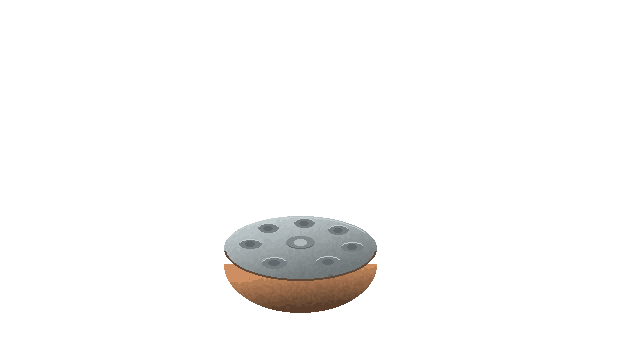
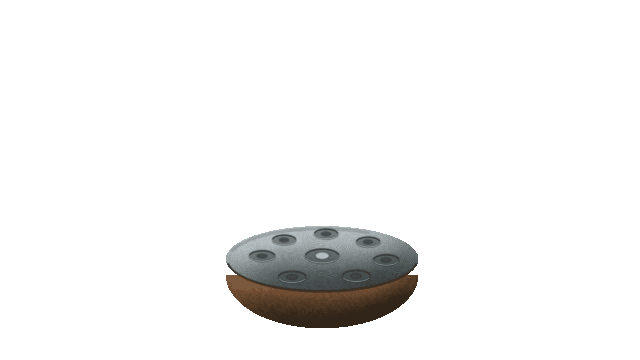
Nyitány: a játékos, a hangszer és a karok domborított fény-árnyékkal festett pixeles képek (tools/intro_jatekos.py), a karok három mozgásfázisa a zene ütéseire vált; a képek importálás nélkül is betöltődnek; simább erdő; felirat: „Music: Malte Marten”
Claude-Session: https://claude.ai/code/session_01T6sPwaPiVjASr8DLyjC9bo

Changed region(s): [[0.3438, 0.5806, 0.6562, 0.9167]]

diff --git a/AETHER_godot/tools/intro_jatekos.py b/AETHER_godot/tools/intro_jatekos.py
@@ -1,0 +1,215 @@
+"""A nyitány handpan-játékosa: festett pixeles alak, a karok mozgásfázisaival.
+
+Saját, kódból festett figura (nem fénykép, nem videókocka és nem valódi személy portréja).
+Háromszoros méretben fest, domborított fény-árnyékkal, majd lekicsinyít és kevés színre vált:
+ettől lesz „festett pixeles”. A karok külön képek három fázisban (fent, félúton, lent),
+a játék ezeket váltja a zene ütéseire (scripts/intro.gd).
+
+Kimenet (640×360, átlátszó háttérrel) az assets/intro mappába:
+  jatekos.png                 test, fej, lábak, a kő
+  handpan.png                 a hangszer
+  kar_b_0..2.png, kar_j_0..2.png   a bal és a jobb kar (a képen bal/jobb) három fázisa
+
+Kell hozzá: Pillow és numpy.   Használat:  python tools/intro_jatekos.py
+"""
+from pathlib import Path
+
+import numpy as np
+from PIL import Image, ImageDraw, ImageFilter
+
+W, H, S = 640, 360, 3
+OUT = Path(__file__).resolve().parent.parent / "assets" / "intro"
+LIGHT = np.array([-0.55, -0.75])           # a fény balról-fentről jön
+
+SKIN = (186, 138, 104)
+SHIRT = (206, 192, 164)
+TROUSERS = (98, 88, 62)
+PAN_C = (322, 262)
+# a hangmezők a hangszer közepéhez képest (x, y, félszélesség); az első a középső „ding”
+FIELDS = [(0, -6, 17), (-60, -6, 13), (-38, -22, 12), (4, -28, 12), (46, -20, 12), (64, -2, 13), (34, 14, 14), (-30, 15, 14)]
+
+
+def sc(pts):
+    return [(x * S, y * S) for x, y in pts]
+
+
+def new():
+    return Image.new("RGBA", (W * S, H * S), (0, 0, 0, 0))
+
+
+def mask_of(draw_fn):
+    m = Image.new("L", (W * S, H * S), 0)
+    draw_fn(ImageDraw.Draw(m))
+    return m
+
+
+def part(canvas, draw_fn, color, round_r=10, k=0.9, grain=0.05, seed=0, shadow=0.0, ambient=0.80):
+    """Egy testrész: a maszk elmosásából domborzatot számol, és balról-fentről megvilágítja."""
+    m = mask_of(draw_fn)
+    if shadow > 0.0:                      # vetett árnyék az alatta lévő részekre
+        sh = m.filter(ImageFilter.GaussianBlur(5 * S)).point(lambda v: int(v * shadow))
+        off = Image.new("L", m.size, 0)
+        off.paste(sh, (3 * S, 5 * S))
+        dark = Image.new("RGBA", m.size, (10, 12, 8, 0))
+        dark.putalpha(Image.fromarray(np.minimum(np.asarray(off), np.asarray(canvas.split()[3]))))
+        canvas.alpha_composite(dark)
+    hgt = np.asarray(m.filter(ImageFilter.GaussianBlur(round_r * S))).astype("float32") / 255.0
+    gy, gx = np.gradient(hgt)
+    lit = (gx * LIGHT[0] + gy * LIGHT[1]) * round_r * S * k * -1.0
+    rng = np.random.default_rng(seed)
+    small = rng.random((H // 2, W // 2)).astype("float32")
+    noise = np.asarray(Image.fromarray((small * 255).astype("uint8")).resize((W * S, H * S), Image.BICUBIC)).astype("float32") / 255.0
+    shade = np.clip(ambient + lit + (noise - 0.5) * grain * 2, 0.35, 1.35)
+    col = np.array(color, dtype="float32")[None, None, :] * shade[..., None]
+    # hűvös-zöld árnyék, meleg fény: az erdő visszavert fénye
+    cool = np.clip(1.0 - shade, 0, 1)[..., None]
+    col = col * (1 - 0.25 * cool) + np.array([20, 46, 30], dtype="float32") * 0.25 * cool
+    layer = np.dstack([col.clip(0, 255), np.asarray(m).astype("float32")]).astype("uint8")
+    canvas.alpha_composite(Image.fromarray(layer, "RGBA"))
+    return m
+
+
+def tint(canvas, draw_fn, blur=2.0, clip=None):
+    """Lágy színfolt (árnyék, borosta, csillanás) a meglévő alakra."""
+    lay = new()
+    draw_fn(ImageDraw.Draw(lay))
+    lay = lay.filter(ImageFilter.GaussianBlur(blur * S))
+    a = np.minimum(np.asarray(lay.split()[3]), np.asarray(canvas.split()[3] if clip is None else clip))
+    lay.putalpha(Image.fromarray(a))
+    canvas.alpha_composite(lay)
+
+
+def capsule(d, a, b, ra, rb):
+    """Elvékonyodó végtag: két kör és az őket összekötő trapéz."""
+    ax, ay, bx, by = a[0] * S, a[1] * S, b[0] * S, b[1] * S
+    ra, rb = ra * S, rb * S
+    d.ellipse([ax - ra, ay - ra, ax + ra, ay + ra], fill=255)
+    d.ellipse([bx - rb, by - rb, bx + rb, by + rb], fill=255)
+    dx, dy = bx - ax, by - ay
+    ln = max(1e-6, (dx * dx + dy * dy) ** 0.5)
+    nx, ny = -dy / ln, dx / ln
+    d.polygon([(ax + nx * ra, ay + ny * ra), (bx + nx * rb, by + ny * rb), (bx - nx * rb, by - ny * rb), (ax - nx * ra, ay - ny * ra)], fill=255)
+
+
+def finish(img, colors):
+    small = img.resize((W, H), Image.BOX)
+    a = small.split()[3].point(lambda v: 255 if v > 110 else 0)
+    rgb = small.convert("RGB").quantize(colors=colors, method=Image.MEDIANCUT, dither=Image.NONE).convert("RGB")
+    rgb.putalpha(a)
+    return rgb
+
+
+def body():
+    c = new()
+    cx = 330
+    # a mohos kő, amin ül
+    part(c, lambda d: d.polygon(sc([(196, 360), (214, 318), (262, 300), (402, 300), (452, 320), (470, 360)]), fill=255),
+         (44, 62, 44), round_r=14, k=0.8, seed=1, grain=0.10)
+    tint(c, lambda d: d.polygon(sc([(214, 318), (262, 300), (402, 300), (452, 320), (440, 328), (228, 328)]), fill=(60, 120, 58, 150)), blur=3)
+    # combok: a hangszer alól kétoldalt kifelé, térdek a kép szélei felé
+    for a, b in (((300, 292), (226, 326)), ((352, 292), (434, 326))):
+        part(c, lambda d, a=a, b=b: capsule(d, a, b, 25, 22), TROUSERS, round_r=12, k=0.9, seed=2, shadow=0.3)
+    for a, b in (((226, 326), (268, 352)), ((434, 326), (392, 352))):
+        part(c, lambda d, a=a, b=b: capsule(d, a, b, 20, 16), TROUSERS, round_r=10, k=0.8, seed=3, ambient=0.66)
+    # nyak, vállak
+    part(c, lambda d: d.polygon(sc([(316, 84), (344, 84), (350, 106), (386, 118), (398, 136), (262, 136), (274, 118), (310, 106)]), fill=255),
+         SKIN, round_r=9, k=0.8, seed=4, ambient=0.74)
+    for sx in (276, 384):
+        part(c, lambda d, sx=sx: d.ellipse(sc([(sx - 17, 114), (sx + 17, 148)]), fill=255), SKIN, round_r=10, k=1.0, seed=5)
+    # ujjatlan vászoning: laza, a mellkasnál szélesebb, lent a hangszer mögé fut
+    shirt_pts = [(294, 110), (310, 116), (330, 132), (350, 116), (366, 110), (378, 126), (386, 156), (396, 196), (394, 250),
+                 (388, 300), (272, 300), (266, 250), (264, 196), (274, 156), (282, 126)]
+    sm = part(c, lambda d: d.polygon(sc(shirt_pts), fill=255), SHIRT, round_r=16, k=1.0, seed=6, grain=0.06, shadow=0.25, ambient=0.78)
+    for pts, a in (([(286, 150), (292, 204), (288, 280)], 60), ([(312, 156), (318, 220), (314, 290)], 50), ([(356, 150), (364, 214), (360, 286)], 60),
+                   ([(378, 176), (384, 236), (380, 296)], 70), ([(332, 140), (336, 196)], 45), ([(300, 124), (304, 152)], 45)):
+        tint(c, lambda d, pts=pts, a=a: d.line(sc(pts), fill=(70, 62, 46, a + 60), width=2 * S), blur=1.2, clip=sm)       # redők
+    tint(c, lambda d: d.line(sc([(294, 110), (310, 116), (330, 132), (350, 116), (366, 110)]), fill=(96, 84, 64, 200), width=2 * S), blur=0.6, clip=sm)
+    tint(c, lambda d: d.polygon(sc([(356, 112), (380, 128), (396, 196), (392, 300), (360, 300)]), fill=(24, 34, 24, 90)), blur=6, clip=sm)   # árnyékos oldal
+    tint(c, lambda d: d.ellipse(sc([(300, 96), (362, 126)]), fill=(30, 22, 16, 110)), blur=4)                               # az áll árnyéka
+    # fej: koponya és állkapocs, kissé lehajtva
+    def head(d):
+        d.ellipse(sc([(cx - 24, 22), (cx + 24, 76)]), fill=255)
+        d.polygon(sc([(cx - 23, 52), (cx + 23, 52), (cx + 18, 80), (cx + 8, 94), (cx - 8, 94), (cx - 18, 80)]), fill=255)
+    hm = part(c, head, SKIN, round_r=11, k=1.0, seed=7, grain=0.03, shadow=0.0, ambient=0.80)
+    for ex in (cx - 27, cx + 21):                                                                                            # fülek
+        part(c, lambda d, ex=ex: d.ellipse(sc([(ex, 54), (ex + 7, 70)]), fill=255), SKIN, round_r=3, k=0.8, seed=8, ambient=0.70)
+    tint(c, lambda d: d.pieslice(sc([(cx - 26, 18), (cx + 26, 66)]), 180, 360, fill=(74, 56, 44, 120)), blur=2.5, clip=hm)    # nagyon rövid haj
+    tint(c, lambda d: d.polygon(sc([(cx + 6, 40), (cx + 24, 44), (cx + 18, 84), (cx + 6, 94)]), fill=(30, 26, 20, 80)), blur=4, clip=hm)
+    tint(c, lambda d: d.ellipse(sc([(cx - 21, 72), (cx + 21, 98)]), fill=(92, 70, 54, 110)), blur=2.5, clip=hm)               # borosta
+    for ex in (cx - 15, cx + 3):
+        tint(c, lambda d, ex=ex: d.ellipse(sc([(ex, 55), (ex + 13, 66)]), fill=(70, 46, 36, 110)), blur=1.6, clip=hm)          # szemgödör
+        tint(c, lambda d, ex=ex: d.line(sc([(ex + 1, 62), (ex + 11, 63)]), fill=(52, 34, 26, 255), width=int(1.4 * S)), blur=0.35, clip=hm)   # lehunyt szem
+        tint(c, lambda d, ex=ex: d.line(sc([(ex, 55), (ex + 12, 54)]), fill=(84, 62, 48, 230), width=int(1.6 * S)), blur=0.5, clip=hm)        # szemöldök
+    tint(c, lambda d: d.polygon(sc([(cx - 2, 58), (cx + 3, 74), (cx - 5, 75)]), fill=(120, 82, 60, 150)), blur=1.0, clip=hm)   # orr
+    tint(c, lambda d: d.line(sc([(cx - 3, 60), (cx - 4, 72)]), fill=(232, 190, 152, 120), width=S), blur=0.8, clip=hm)
+    tint(c, lambda d: d.line(sc([(cx - 8, 83), (cx + 6, 83)]), fill=(104, 62, 52, 230), width=int(1.4 * S)), blur=0.5, clip=hm)  # száj
+    return finish(c, 56)
+
+
+def pan():
+    c = new()
+    px, py = PAN_C
+    rx, ry = 96, 36
+    # alsó héj (bronzos), felső kupola (acél), perem
+    part(c, lambda d: d.chord(sc([(px - rx, py - 40), (px + rx, py + 66)]), 0, 180, fill=255), (156, 104, 68), round_r=16, k=1.2, seed=11, ambient=0.62)
+    dome = part(c, lambda d: d.ellipse(sc([(px - rx, py - ry), (px + rx, py + ry - 6)]), fill=255), (148, 156, 158), round_r=20, k=1.3, seed=12,
+                grain=0.03, ambient=0.86)
+    tint(c, lambda d: d.arc(sc([(px - rx, py - ry), (px + rx, py + ry - 6)]), 8, 172, fill=(70, 52, 40, 255), width=2 * S), blur=0.5)
+    tint(c, lambda d: d.arc(sc([(px - rx + 2, py - ry + 2), (px + rx - 2, py + ry - 8)]), 196, 300, fill=(236, 240, 238, 200), width=int(1.5 * S)), blur=0.8, clip=dome)
+    tint(c, lambda d: d.ellipse(sc([(px - 70, py - 30), (px - 10, py - 12)]), fill=(240, 244, 240, 60)), blur=6, clip=dome)     # fényfolt
+    for i, (fx, fy, rw) in enumerate(FIELDS):
+        x, y, rh = px + fx, py + fy, rw * 0.42
+        tint(c, lambda d: d.ellipse(sc([(x - rw, y - rh), (x + rw, y + rh)]), fill=(70, 78, 82, 150)), blur=0.8, clip=dome)     # bemélyedés
+        tint(c, lambda d: d.arc(sc([(x - rw, y - rh), (x + rw, y + rh)]), 190, 350, fill=(52, 58, 62, 255), width=int(1.3 * S)), blur=0.4, clip=dome)
+        tint(c, lambda d: d.arc(sc([(x - rw, y - rh), (x + rw, y + rh)]), 20, 160, fill=(226, 232, 232, 220), width=int(1.2 * S)), blur=0.4, clip=dome)
+        if i == 0:
+            tint(c, lambda d: d.ellipse(sc([(x - 7, y - 4), (x + 7, y + 3)]), fill=(214, 220, 220, 230)), blur=0.8, clip=dome)   # a „ding” púpja
+        else:
+            tint(c, lambda d: d.ellipse(sc([(x - rw * 0.4, y - rh * 0.4), (x + rw * 0.4, y + rh * 0.4)]), fill=(56, 62, 66, 200)), blur=0.6, clip=dome)
+    return finish(c, 40)
+
+
+# a karok fázisai: (könyök, csukló, a kézfej iránya fokban) – 0 fent lebeg, 1 félúton, 2 a hangmezőn
+ARMS = {
+    "b": {"váll": (276, 132), "fázis": [((250, 208), (286, 222), 20), ((250, 210), (284, 236), 34), ((250, 212), (282, 248), 44)], "seed": 21},
+    "j": {"váll": (384, 132), "fázis": [((410, 206), (366, 214), 160), ((410, 208), (364, 228), 148), ((410, 210), (360, 240), 138)], "seed": 31},
+}
+
+
+def arm(side, phase):
+    import math
+    c = new()
+    a = ARMS[side]
+    sh = a["váll"]
+    el, wr, ang = a["fázis"][phase]
+    amb = 0.84 if side == "b" else 0.70
+    part(c, lambda d: capsule(d, sh, el, 15.5, 12.5), SKIN, round_r=9, k=1.1, seed=a["seed"], ambient=amb)
+    part(c, lambda d: capsule(d, el, wr, 12.5, 8.5), SKIN, round_r=8, k=1.1, seed=a["seed"] + 1, ambient=amb)
+    r = math.radians(ang)
+    dx, dy = math.cos(r), math.sin(r)
+    nx, ny = -dy, dx
+    palm = (wr[0] + dx * 10, wr[1] + dy * 10)
+    part(c, lambda d: capsule(d, wr, palm, 9, 10.5), SKIN, round_r=6, k=1.0, seed=a["seed"] + 2, ambient=amb)
+    curl = (0.0, 0.15, 0.3)[phase]              # lecsapáskor az ujjak a hangszerre simulnak
+    for f in range(4):
+        off = (f - 1.5) * 5.2
+        base = (palm[0] + dx * 7 + nx * off, palm[1] + dy * 7 + ny * off)
+        ln = 18 - abs(f - 1.5) * 2.4
+        tip = (base[0] + dx * ln, base[1] + dy * ln + 4 * curl + 2)
+        part(c, lambda d, base=base, tip=tip: capsule(d, base, tip, 2.9, 2.3), SKIN, round_r=2.5, k=0.9, seed=a["seed"] + 3 + f,
+             ambient=amb - 0.04 * (f % 2))
+    s = 1 if side == "b" else -1
+    tb = (palm[0] - nx * 9 * s, palm[1] - ny * 9 * s)
+    part(c, lambda d: capsule(d, tb, (tb[0] + dx * 9 - nx * 4 * s, tb[1] + dy * 9 - ny * 4 * s), 3.4, 2.6), SKIN, round_r=3, k=0.9,
+         seed=a["seed"] + 9, ambient=amb - 0.05)
+    return finish(c, 24)
+
+
+if __name__ == "__main__":
+    OUT.mkdir(parents=True, exist_ok=True)
+    body().save(OUT / "jatekos.png")
+    pan().save(OUT / "handpan.png")
+    for side in ("b", "j"):
+        for ph in range(3):
+            arm(side, ph).save(OUT / f"kar_{side}_{ph}.png")
+    print("kész:", OUT)

diff --git a/AETHER_godot/tools/intro_erdo.py b/AETHER_godot/tools/intro_erdo.py
@@ -5,9 +5,7 @@ erdőben, mohos sziklák és páfrányok között ülő, ujjatlan vászoninges j
 ölében a hangszerrel. A karokat és a kezeket a játék rajzolja és mozgatja (scripts/intro.gd).
 
 Kimenet (640×360, a játék 2,5-szeresre nagyítja):
-  assets/intro/erdo.png      a háttér
-  assets/intro/jatekos.png   a törzs, a fej és a térdek (átlátszó háttérrel)
-  assets/intro/handpan.png   a hangszer (átlátszó háttérrel)
+  assets/intro/erdo.png      a háttér (a játékost és a hangszert a tools/intro_jatekos.py festi)
 
 Kell hozzá: Pillow és numpy.   Használat:  python tools/intro_erdo.py
 """
@@ -99,9 +97,6 @@ def background():
     fern_bush(d, 28, 330, 120, (36, 92, 46), (54, 124, 58), count=7, spread=2.2)
     fern_bush(d, 618, 180, 90, (38, 96, 48), (56, 128, 60), count=6, spread=2.0)
     fern_bush(d, 160, 300, 70, (32, 84, 42), (48, 112, 54), count=6, spread=2.3)
-    for _ in range(26):                                                     # vékony fűszálak
-        x, y = rnd.uniform(380, 470), rnd.uniform(60, 200)
-        d.line([x, y + 60, x + rnd.uniform(-6, 6), y], fill=(46, 96, 50), width=1)
     # 5. talaj: sötét avar, borostyán- és lóherelevelek
     px = np.asarray(far).astype("float32")
     yy = np.linspace(0, 1, H)[:, None]
@@ -129,8 +124,9 @@ def background():
     px *= 0.42 + 0.78 * light
     px[..., 2] *= 1.08
     px[..., 0] *= 0.94
-    img = Image.fromarray(px.clip(0, 255).astype("uint8"))
-    return img.quantize(colors=64, method=Image.MEDIANCUT, dither=Image.NONE).convert("RGB")
+    px = px * 0.93 + np.array([7.0, 14.0, 10.0])          # a legsötétebb részek se legyenek koromfeketék
+    img = Image.fromarray(px.clip(0, 255).astype("uint8")).filter(ImageFilter.GaussianBlur(0.5))
+    return img.quantize(colors=160, method=Image.MEDIANCUT, dither=Image.NONE).convert("RGB")
 
 
 def shade_fill(img, mask_draw, base, light_dir=(-0.6, -0.6), strength=0.35, seed=1, grain=0.06):
@@ -247,6 +243,4 @@ def quant(img, colors):
 if __name__ == "__main__":
     OUT.mkdir(parents=True, exist_ok=True)
     background().save(OUT / "erdo.png")
-    player().save(OUT / "jatekos.png")
-    handpan().save(OUT / "handpan.png")
-    print("kész:", OUT)
+    print("kész:", OUT / "erdo.png", "(a játékos és a hangszer: tools/intro_jatekos.py)")
